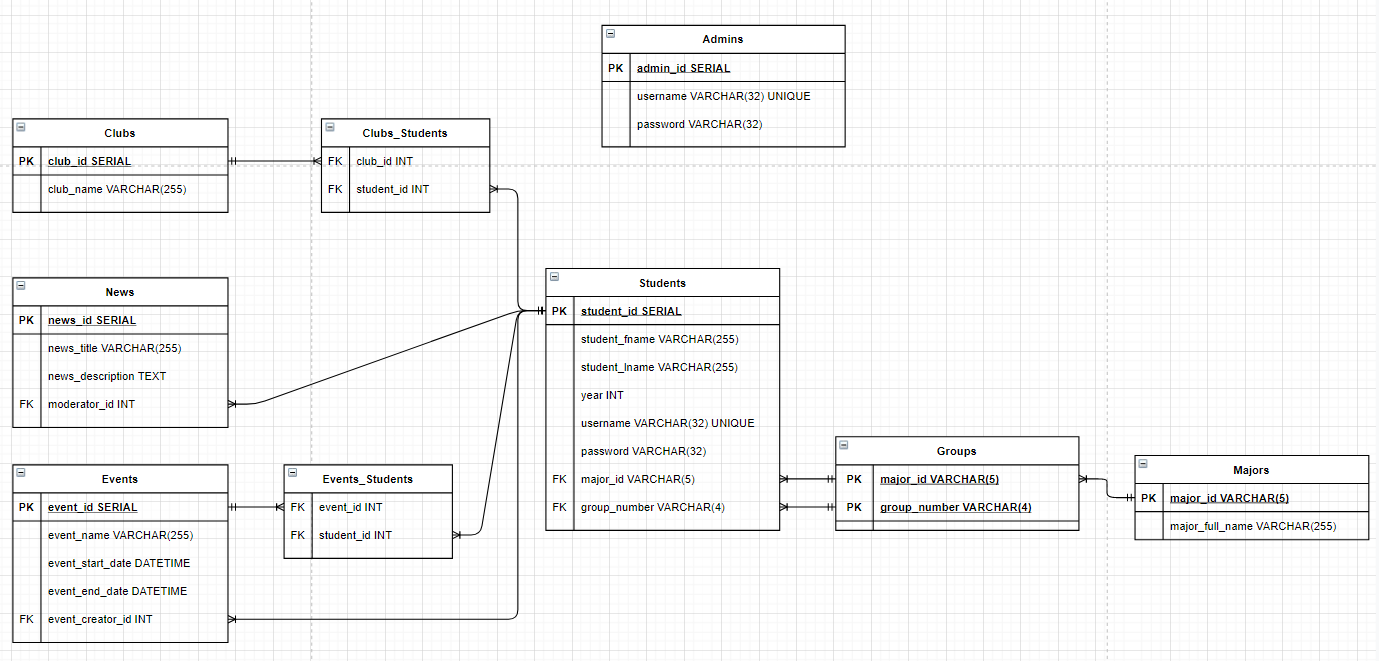
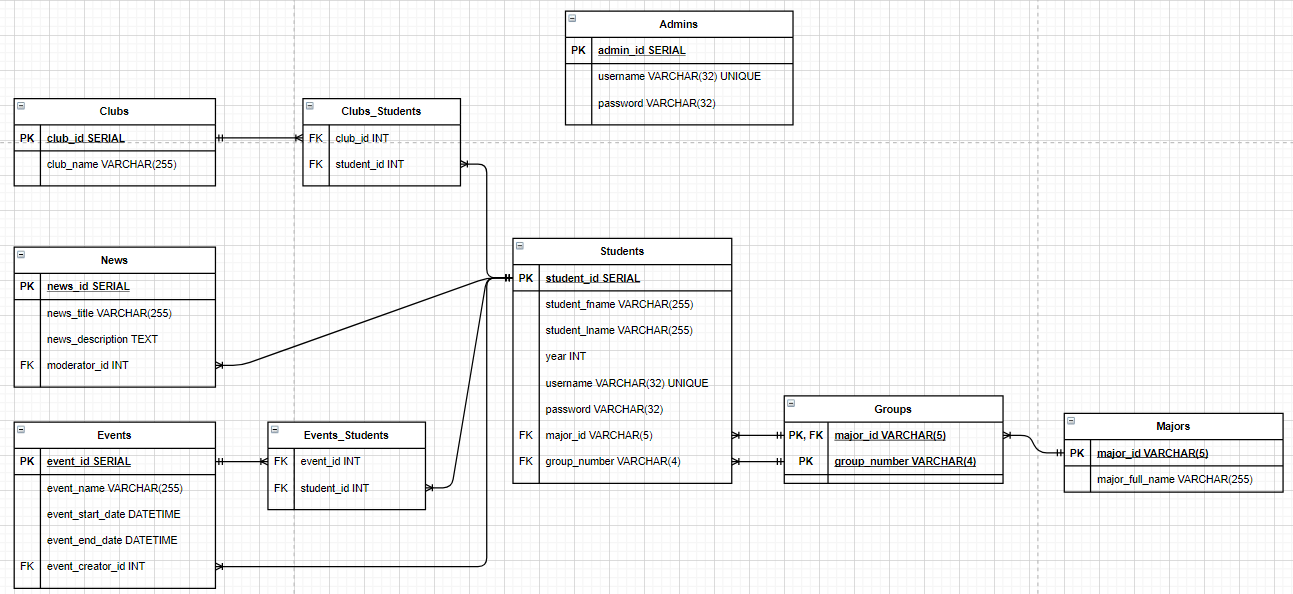
Model Major & updated ERD

diff --git a/src/main/java/kz/edu/astanait/models/Major.java b/src/main/java/kz/edu/astanait/models/Major.java
@@ -1,0 +1,35 @@
+package kz.edu.astanait.models;
+
+public class Major {
+    private String id;
+    private String full_name;
+
+    public Major(String id, String full_name) {
+        this.id = id;
+        this.full_name = full_name;
+    }
+
+    public String getId() {
+        return id;
+    }
+
+    public void setId(String id) {
+        this.id = id;
+    }
+
+    public String getFull_name() {
+        return full_name;
+    }
+
+    public void setFull_name(String full_name) {
+        this.full_name = full_name;
+    }
+
+    @Override
+    public String toString() {
+        return "Major{" +
+                "id='" + id + '\'' +
+                ", full_name='" + full_name + '\'' +
+                '}';
+    }
+}
